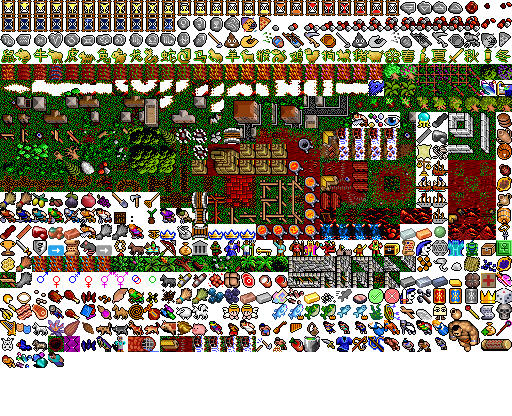
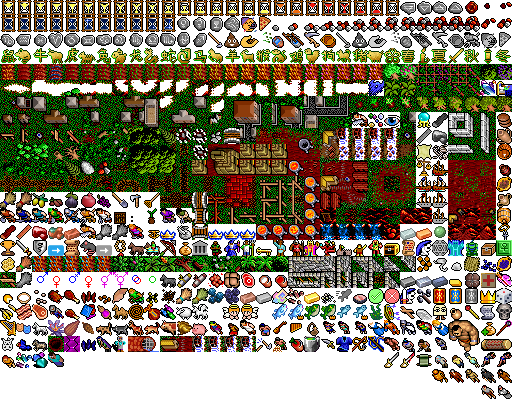
1.24.00-C

Changed region(s): [[0.75, 0.8438, 1.0, 0.9688]]

diff --git a/scripts/translate.js b/scripts/translate.js
@@ -2113,7 +2113,14 @@ function Translate(language, bark = true) {
         displayStoryFarmMildew = 'YOU HAVE JUST RECEIVED A MESSAGE FROM THE MAN WHO RUNS THE WAREHOUSE WHERE YOU KEEP YOUR WHEAT:<div id="nasirMessage">Roof damage has let water in; mildew has claimed 90% of all grain in storage; my sincerest apologies<br>—Ea-nāṣir</div>';
         displayStoryFarm1 = 'WITH TWICE THE LAND I CAN DOUBLE MY PROFITS';
         displayStoryFarm2 = 'THERE ARE MEN IN NEED OF WORK';
-        displayStoryAccountant = 'I HAVE NO HEAD FOR FIGURES AT ALL';
+        const newHire = [
+            '<br><br><table id="tableManHired"><thead><tr><td>New Hire!</td></tr></thead><tbody><tr><td><span class="icon ',
+            ' inlineIcon"></span> ',
+            '</td></tr><tr><td><span class="icon ',
+            '<br><br><table id="tableManHired" class="multipleHires"><thead><tr><td>New Hires!</td></tr></thead><tbody><tr><td><span class="icon ',
+            '</td></tr></tbody></table>',
+        ];
+        displayStoryAccountant = 'I HAVE NO HEAD FOR FIGURES AT ALL' + newHire[0] + 'MrTopHat' + newHire[1] + 'Eukleídes Pythagóras Q.<br>Poindexter IV, CPA' + '</td></tr></tbody></table>';
         displayStoryFarm3 = 'REINVESTING OUR PROFIT MEANS WE CAN GROW';
         displayStoryFarm4 = '“THE ONLY FENCE AGAINST THE WORLD IS A THOROUGH KNOWLEDGE OF IT”<br>—JOHN LOCKE';
         displayStoryFarm5 = 'PLENTY OF ROOM FOR SOME TREES';
@@ -2123,13 +2130,6 @@ function Translate(language, bark = true) {
         displayStoryFarm9 = '“HE PLANTS HIS TREES TO SERVE A RACE TO COME”<br>—STATIUS';
         displayStoryFarm10 = 'IF IT WASN’T HIM IT WOULD BE ME<br><br><img id="imgTentIcon" src="' + imageTent.src + '"><br>(Your Tent is Now Accessible)';
         displayStoryForest = '“HEAVEN IS UNDER OUR FEET AS WELL AS OVER OUR HEADS”<br>—HENRY DAVID THOREAU';
-        const newHire = [
-            '<br><br><table id="tableManHired"><thead><tr><td>New Hire!</td></tr></thead><tbody><tr><td><span class="icon ',
-            ' inlineIcon"></span> ',
-            '</td></tr><tr><td><span class="icon ',
-            '<br><br><table id="tableManHired" class="multipleHires"><thead><tr><td>New Hires!</td></tr></thead><tbody><tr><td><span class="icon ',
-            '</td></tr></tbody></table>',
-        ];
         const logCampBoys = [
             newHire[3] + 'Logger' + newHire[1],
             newHire[2] + 'Logger' + newHire[1],
@@ -4022,7 +4022,14 @@ function Translate(language, bark = true) {
         displayStoryFarmMildew = 'ACABAS DE RECIBIR UN MENSAJE DEL HOMBRE QUE DIRIGIE EL ALMACÉN DONDE GUARDAS TU TRIGO:<div id="nasirMessage">Los daños en el techo ha dejado entrar agua; el moho ha reclamado el 90% de todo el grano almacenado; mis más sinceras disculpas<br>—Ea-nāṣir</div>';
         displayStoryFarm1 = 'CON EL DOBLE DE TERRENO PUEDO DUPLICAR MIS GANANCIAS';
         displayStoryFarm2 = 'HAY HOMBRES QUE NECESITAN TRABAJO';
-        displayStoryAccountant = 'NO TENGO CABEZA PARA LAS CIFRAS EN ABSOLUTO';
+        const newHire = [
+            '<br><br><table id="tableManHired"><thead><tr><td>¡Nuevo Empleado!</td></tr></thead><tbody><tr><td><span class="icon ',
+            ' inlineIcon"></span> ',
+            '</td></tr><tr><td><span class="icon ',
+            '<br><br><table id="tableManHired" class="multipleHires"><thead><tr><td>¡Nuevos Empleados!</td></tr></thead><tbody><tr><td><span class="icon ',
+            '</td></tr></tbody></table>',
+        ];
+        displayStoryAccountant = 'NO TENGO CABEZA PARA LAS CIFRAS EN ABSOLUTO' + newHire[0] + 'MrTopHat' + newHire[1] + 'Eukleídes Pitágoras Q.<br>Poindexter IV, CPA' + '</td></tr></tbody></table>';
         displayStoryFarm3 = 'REINVESTIR NUESTROS GANANCIAS SIGNIFICA QUE PODEMOS CRECER';
         displayStoryFarm4 = '«LA ÚNICA VALLA CONTRA EL MUNDO ES UN CONOCIMIENTO PROFUNDO DE ÉL»<br>—JOHN LOCKE';
         displayStoryFarm5 = 'MUCHO ESPACIO PARA ALGUNOS ÁRBOLES';
@@ -4032,13 +4039,6 @@ function Translate(language, bark = true) {
         displayStoryFarm9 = '«EL PLANTA SUS ÁRBOLES PARA SERVIR A UNA RAZA POR VENIR»<br>—ESTACIO';
         displayStoryFarm10 = 'SI NO FUERA ÉL SERÍA YO<br><br><img id="imgTentIcon" src="' + imageTent.src + '"><br>(Tu Tienda de Campaña Ya Está Accesible)';
         displayStoryForest = '«CIELO ESTÁ BAJO NUESTROS PIES ADEMÁS SOBRE NUESTRAS CABEZAS»<br>—HENRY DAVID THOREAU';
-        const newHire = [
-            '<br><br><table id="tableManHired"><thead><tr><td>¡Nuevo Empleado!</td></tr></thead><tbody><tr><td><span class="icon ',
-            ' inlineIcon"></span> ',
-            '</td></tr><tr><td><span class="icon ',
-            '<br><br><table id="tableManHired" class="multipleHires"><thead><tr><td>¡Nuevos Empleados!</td></tr></thead><tbody><tr><td><span class="icon ',
-            '</td></tr></tbody></table>',
-        ];
         const logCampBoys = [
             newHire[3] + 'Logger' + newHire[1],
             newHire[2] + 'Logger' + newHire[1],

diff --git a/index.html b/index.html
@@ -41,8 +41,8 @@
     <link rel="preconnect" href="https://fonts.gstatic.com" crossorigin>
     <link rel="stylesheet"
         href="https://fonts.googleapis.com/css2?family=Alegreya+Sans+SC:ital,wght@0,100;0,300;0,400;0,500;0,700;0,800;0,900;1,100;1,300;1,400;1,500;1,700;1,800;1,900&family=EB+Garamond:ital,wght@0,400..800;1,400..800&family=Libertinus+Serif:ital,wght@0,400;0,600;0,700;1,400;1,600;1,700&display=swap">
-    <link rel="stylesheet" id="stylesheetLoading" href="loading.css?v=1.24.00.0001">
-    <link rel="stylesheet" id="stylesheetActive" href="style.css?v=1.24.00.0001">
+    <link rel="stylesheet" id="stylesheetLoading" href="loading.css?v=1.24.00.0002">
+    <link rel="stylesheet" id="stylesheetActive" href="style.css?v=1.24.00.0002">
     <script>history.scrollRestoration = 'manual';</script>
 </head>
 

diff --git a/scripts/init.js b/scripts/init.js
@@ -1,7 +1,7 @@
 // ۞ INIT ******************************************************************************************
 // *************************************************************************************************
 
-const version = '1.24.00-B';
+const version = '1.24.00-C';
 
 const arrayFarmPlots = [
     [0, 0, 0, 0, 0, 0, 0, 0, 0, 0, 0, 0, 0, 0,],

diff --git a/scripts/start.js b/scripts/start.js
@@ -30,7 +30,7 @@ setTimeout(() => {
 // ╠══════════════╣
 // ║ by Davis Lab ║
 // ╟──────────────╢
-// ║  v1.24.00-B  ║
+// ║  v1.24.00-C  ║
 // ╟──────────────╢
 // ║  11/05/2025  ║ lol
 // ╚══════════════╝

diff --git a/style.css b/style.css
@@ -3191,6 +3191,11 @@ html body div#divMinigameFishing table#tableFishInventory tbody tr td.rightPadCo
     --j: 21;
 }
 
+.MrTopHat {
+    --i: 30;
+    --j: 23;
+}
+
 .Tanner {
     --i: 25;
     --j: 21;

diff --git a/styleClamped.css b/styleClamped.css
@@ -3101,6 +3101,11 @@ html body div#divMinigameFishing table#tableFishInventory tbody tr td.rightPadCo
     --j: 21;
 }
 
+.MrTopHat {
+    --i: 30;
+    --j: 23;
+}
+
 .Tanner {
     --i: 25;
     --j: 21;
